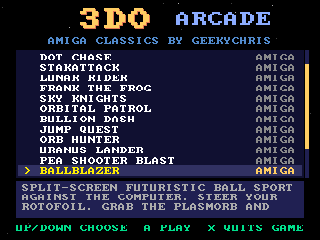
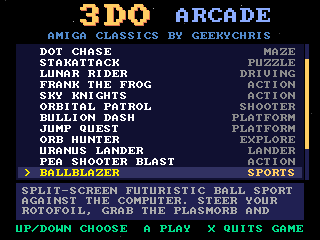
Arcade: crisp 1:1 menu text, genre column instead of origin
- the menu drew a 256-line screen scaled to 240, which drops a line in
  16 and clipped rows of text; it now shows lines 8..247 1:1
  (GFX_VIEW_CROP) with the layout moved to fit
- arcade.txt gains genre= (shown in the menu); origin= stays for docs
- docs/games.md lists each game's genre; screenshots regenerated

Changed region(s): [[0.0312, 0.0, 0.9688, 0.9917]]

diff --git a/projects/arcade/src/main.c b/projects/arcade/src/main.c
@@ -35,6 +35,12 @@ static UWORD palette[16] = {
 #define C_LIGHT  14
 
 #define VISIBLE  12
+/* The menu is drawn 1:1 (lines VIEW_Y0..VIEW_Y0+239 of the 256-line
+ * screen): the default 256 -> 240 scaling drops a line in 16, which
+ * clips rows of text. */
+#define VIEW_Y0  8
+#define LIST_Y   52                     /* list band top */
+#define DESC_Y   (LIST_Y + VISIBLE * 11 + 7)
 #define STARS    40
 
 static WORD star_x[STARS], star_y[STARS], star_s[STARS];
@@ -99,6 +105,7 @@ static int menu(int sel)
 
     if (!gfx_init(palette, 16))
         return -1;
+    gfx_set_view(GFX_VIEW_CROP, VIEW_Y0);
     rp = gfx_back();
     AB_I("menu games=%d selected=%s", NUM_GAMES, NUM_GAMES ? GAMES[sel].name : "-");
 
@@ -128,35 +135,35 @@ static int menu(int sel)
 
         /* title */
         SetAPen(rp, C_CORAL);
-        gfx_text_big(rp, 160 - 5 * 16 / 2 * 2 + 1, 10, "3DO", 3);
+        gfx_text_big(rp, 160 - 5 * 16 / 2 * 2 + 1, 13, "3DO", 3);
         SetAPen(rp, C_GOLD);
-        gfx_text_big(rp, 160 - 5 * 16 / 2 * 2, 9, "3DO", 3);
+        gfx_text_big(rp, 160 - 5 * 16 / 2 * 2, 12, "3DO", 3);
         SetAPen(rp, C_SKY);
-        gfx_text_big(rp, 160 - 3 * 16 / 2 * 2 + 64, 13, "ARCADE", 2);
+        gfx_text_big(rp, 160 - 3 * 16 / 2 * 2 + 64, 16, "ARCADE", 2);
         text_at(rp, 160 - 28 * 4, 40, "AMIGA CLASSICS BY GEEKYCHRIS", C_DIMSKY);
 
         /* list */
         SetAPen(rp, C_BAND1);
-        RectFill(rp, 16, 54, 303, 54 + VISIBLE * 11 + 3);
+        RectFill(rp, 16, LIST_Y, 303, LIST_Y + VISIBLE * 11 + 3);
         for (i = 0; i < VISIBLE && top + i < NUM_GAMES; i++) {
             int g = top + i;
-            LONG y = 57 + i * 11;
+            LONG y = LIST_Y + 3 + i * 11;
             if (g == sel) {
                 SetAPen(rp, C_SEL);
                 RectFill(rp, 18, y - 1, 301, y + 9);
                 text_at(rp, 24, y + 1, ">", C_YELLOW);
             }
             text_at(rp, 40, y + 1, GAMES[g].title, g == sel ? C_YELLOW : C_WHITE);
-            text_at(rp, 296 - 8 * (LONG)strlen(GAMES[g].origin), y + 1, GAMES[g].origin,
+            text_at(rp, 296 - 8 * (LONG)strlen(GAMES[g].genre), y + 1, GAMES[g].genre,
                     g == sel ? C_GOLD : C_GREY);
         }
         if (NUM_GAMES > VISIBLE) {
             /* scrollbar right of the list so it's clear there are more games */
             LONG track = VISIBLE * 11 + 3;
             LONG th = track * VISIBLE / NUM_GAMES;
-            LONG ty = 54 + (track - th) * top / (NUM_GAMES - VISIBLE);
+            LONG ty = LIST_Y + (track - th) * top / (NUM_GAMES - VISIBLE);
             SetAPen(rp, C_BAND2);
-            RectFill(rp, 305, 54, 308, 54 + track);
+            RectFill(rp, 305, LIST_Y, 308, LIST_Y + track);
             SetAPen(rp, C_GOLD);
             RectFill(rp, 305, ty, 308, ty + th - 1);
         }
@@ -164,12 +171,12 @@ static int menu(int sel)
         /* description */
         if (NUM_GAMES) {
             SetAPen(rp, C_BAND2);
-            RectFill(rp, 16, 194, 303, 232);
-            text_wrapped(rp, 22, 197, GAMES[sel].desc, 35, C_LIGHT, 3);
+            RectFill(rp, 16, DESC_Y, 303, DESC_Y + 36);
+            text_wrapped(rp, 22, DESC_Y + 4, GAMES[sel].desc, 35, C_LIGHT, 3);
         } else {
             text_at(rp, 40, 120, "NO GAMES ON THIS DISC", C_CORAL);
         }
-        text_at(rp, 160 - 36 * 4, 240, "UP/DOWN CHOOSE  A PLAY  X QUITS GAME", ((t >> 4) & 1) ? C_GREEN : C_DIMSKY);
+        text_at(rp, 160 - 36 * 4, DESC_Y + 42, "UP/DOWN CHOOSE  A PLAY  X QUITS GAME", ((t >> 4) & 1) ? C_GREEN : C_DIMSKY);
 
         gfx_swap();
         t++;

diff --git a/docs/tools/capture_games.py b/docs/tools/capture_games.py
@@ -84,7 +84,7 @@ def main():
             logic, draw = spd[g["name"]]
             rows.append(f"| [{g['title']}](#{g['name'].replace('_', '-')}) | {logic:.0f} | {draw:.0f} |")
         sections.append(f"### {g['title']}\n<a id=\"{g['name'].replace('_', '-')}\"></a>\n\n"
-                        f"{g.get('desc', '')}\n\n`projects/{g['name']}` · from the {g.get('origin', '')} version\n\n"
+                        f"{g.get('desc', '')}\n\n{g.get('genre', '')} · `projects/{g['name']}` · from the {g.get('origin', '')} version\n\n"
                         + " ".join(imgs) + "\n")
     page = ["# The games", "",
             "Ports of the Amiga games to the 3DO through the sdk/amiga compatibility",

diff --git a/docs/games.md b/docs/games.md
@@ -48,7 +48,7 @@ Measured in the emulator by `./3do selftest`.
 
 Asteroids-style vector shooter. Rotate, thrust and blast the rocks before they smash your ship. LEFT/RIGHT rotate, UP or B thrust, A fire.
 
-`projects/rock_blaster` · from the Amiga version
+Shooter · `projects/rock_blaster` · from the Amiga version
 
 ![Rock Blaster title](images/games/rock_blaster-title.png) ![Rock Blaster play](images/games/rock_blaster-play.png)
 
@@ -57,7 +57,7 @@ Asteroids-style vector shooter. Rotate, thrust and blast the rocks before they s
 
 Space Invaders-style shooter. Hold back the alien swarm from behind your shields and pick off the UFO. LEFT/RIGHT move, A fire.
 
-`projects/nova_defense` · from the Amiga version
+Shooter · `projects/nova_defense` · from the Amiga version
 
 ![Nova Defense title](images/games/nova_defense-title.png) ![Nova Defense play](images/games/nova_defense-play.png)
 
@@ -66,7 +66,7 @@ Space Invaders-style shooter. Hold back the alien swarm from behind your shields
 
 Maze chase in the style of Pac-Man. Eat every dot, grab a power pellet to turn the tables on the ghosts. D-pad steers, A starts.
 
-`projects/dot_chase` · from the Amiga version
+Maze · `projects/dot_chase` · from the Amiga version
 
 ![Dot Chase title](images/games/dot_chase-title.png) ![Dot Chase play](images/games/dot_chase-play.png)
 
@@ -75,7 +75,7 @@ Maze chase in the style of Pac-Man. Eat every dot, grab a power pellet to turn t
 
 Falling-block puzzle with ProTracker music. Fit the pieces together and clear lines before the stack reaches the top. LEFT/RIGHT move, A rotate, B drop, DOWN soft drop, P pause.
 
-`projects/stakattack` · from the Amiga version
+Puzzle · `projects/stakattack` · from the Amiga version
 
 ![StakAttack title](images/games/stakattack-title.png) ![StakAttack play](images/games/stakattack-play.png)
 
@@ -84,7 +84,7 @@ Falling-block puzzle with ProTracker music. Fit the pieces together and clear li
 
 Moon Patrol-style buggy ride. Jump the craters and rocks while shooting UFOs and meteors on the way to each checkpoint. LEFT/RIGHT speed, UP or B jump, A shoot.
 
-`projects/lunar_rider` · from the Amiga version
+Driving · `projects/lunar_rider` · from the Amiga version
 
 ![Lunar Rider title](images/games/lunar_rider-title.png) ![Lunar Rider play](images/games/lunar_rider-play.png)
 
@@ -93,7 +93,7 @@ Moon Patrol-style buggy ride. Jump the craters and rocks while shooting UFOs and
 
 Frogger-style crossing with generated music. Hop across the traffic and ride the logs to fill all five homes. D-pad hops, A starts.
 
-`projects/frank_the_frog` · from the Amiga version
+Action · `projects/frank_the_frog` · from the Amiga version
 
 ![Frank the Frog title](images/games/frank_the_frog-title.png) ![Frank the Frog play](images/games/frank_the_frog-play.png)
 
@@ -102,7 +102,7 @@ Frogger-style crossing with generated music. Hop across the traffic and ride the
 
 Joust-style jousting on flying mounts for one or two players. Land on enemies from above and collect the eggs. D-pad steers, A flaps. A starts one player, C two (second pad).
 
-`projects/sky_knights` · from the Amiga version
+Action · `projects/sky_knights` · from the Amiga version
 
 ![Sky Knights title](images/games/sky_knights-title.png) ![Sky Knights play](images/games/sky_knights-play.png)
 
@@ -111,7 +111,7 @@ Joust-style jousting on flying mounts for one or two players. Land on enemies fr
 
 Defender-style side scroller with ProTracker music. Fly over the planet, shoot the invaders and protect the humans. D-pad flies, A fire, B smart bomb, C hyperspace.
 
-`projects/orbital_patrol` · from the Amiga version
+Shooter · `projects/orbital_patrol` · from the Amiga version
 
 ![Orbital Patrol title](images/games/orbital_patrol-title.png) ![Orbital Patrol play](images/games/orbital_patrol-play.png)
 
@@ -120,7 +120,7 @@ Defender-style side scroller with ProTracker music. Fly over the planet, shoot t
 
 Lode Runner-style puzzle platformer with a level editor. Collect the gold, dig traps for the guards, then climb out. A fire, B/C dig left/right. C on the title opens the editor.
 
-`projects/bullion_dash` · from the Amiga version
+Platform · `projects/bullion_dash` · from the Amiga version
 
 ![Bullion Dash title](images/games/bullion_dash-title.png) ![Bullion Dash play](images/games/bullion_dash-play.png)
 
@@ -129,7 +129,7 @@ Lode Runner-style puzzle platformer with a level editor. Collect the gold, dig t
 
 Side-scrolling platformer for one or two players taking turns. Pick RJ or Dale, jump on the enemies and reach the end of three levels. D-pad moves, A jumps.
 
-`projects/jump_quest` · from the Amiga version
+Platform · `projects/jump_quest` · from the Amiga version
 
 ![Jump Quest title](images/games/jump_quest-title.png) ![Jump Quest play](images/games/jump_quest-play.png)
 
@@ -138,7 +138,7 @@ Side-scrolling platformer for one or two players taking turns. Pick RJ or Dale, 
 
 Metroid-style exploration. Search the caverns room by room, collect power-ups to reach new areas. D-pad moves and aims, UP or B jumps, DOWN rolls, A fires.
 
-`projects/orb_hunter` · from the Amiga version
+Explore · `projects/orb_hunter` · from the Amiga version
 
 ![Orb Hunter title](images/games/orb_hunter-title.png) ![Orb Hunter play](images/games/orb_hunter-play.png)
 
@@ -147,7 +147,7 @@ Metroid-style exploration. Search the caverns room by room, collect power-ups to
 
 Lunar Lander over the rings of Uranus, with ProTracker music. Rotate, thrust gently and touch down on the pads before the fuel runs out. LEFT/RIGHT rotate, A thrust.
 
-`projects/uranus_lander` · from the Amiga version
+Lander · `projects/uranus_lander` · from the Amiga version
 
 ![Uranus Lander title](images/games/uranus_lander-title.png) ![Uranus Lander play](images/games/uranus_lander-play.png)
 
@@ -156,7 +156,7 @@ Lunar Lander over the rings of Uranus, with ProTracker music. Rotate, thrust gen
 
 Side-scrolling tank action. Drive, jump and blast through the enemy lines to the end of each level. D-pad drives, UP or B jumps, A fires.
 
-`projects/pea_shooter_blast` · from the Amiga version
+Action · `projects/pea_shooter_blast` · from the Amiga version
 
 ![Pea Shooter Blast title](images/games/pea_shooter_blast-title.png) ![Pea Shooter Blast play](images/games/pea_shooter_blast-play.png)
 
@@ -165,7 +165,7 @@ Side-scrolling tank action. Drive, jump and blast through the enemy lines to the
 
 Split-screen futuristic ball sport against the computer. Steer your rotofoil, grab the plasmorb and shoot it through the goal beams. D-pad steers, UP or A forward.
 
-`projects/ballblazer` · from the Amiga version
+Sports · `projects/ballblazer` · from the Amiga version
 
 ![Ballblazer play](images/games/ballblazer-play.png)
 
@@ -174,7 +174,7 @@ Split-screen futuristic ball sport against the computer. Steer your rotofoil, gr
 
 3D wireframe dogfighting over an airfield to the Blue Danube, one player or two in split screen. D-pad flies, A fires, L/R throttle. L or R on the title picks 1 or 2 players.
 
-`projects/ace_pilot` · from the Amiga version
+Flight sim · `projects/ace_pilot` · from the Amiga version
 
 ![Ace Pilot title](images/games/ace_pilot-title.png) ![Ace Pilot play](images/games/ace_pilot-play.png)
 
@@ -183,7 +183,7 @@ Split-screen futuristic ball sport against the computer. Steer your rotofoil, gr
 
 Elite-style 3D space trading and combat with generated music. Fly, fight the pirates, dock at the station and trade. D-pad pitch/yaw, L/R roll, B/C thrust, A fire, P dock.
 
-`projects/void_trader` · from the Amiga version
+Space trade · `projects/void_trader` · from the Amiga version
 
 ![Void Trader title](images/games/void_trader-title.png) ![Void Trader play](images/games/void_trader-play.png)
 
@@ -192,7 +192,7 @@ Elite-style 3D space trading and combat with generated music. Fly, fight the pir
 
 Birthday party adventure with ProTracker music. Run around the party rooms, greet the guests, find the cake. D-pad moves, A acts, B help, C guest list.
 
-`projects/rj_birthday` · from the Amiga version
+Adventure · `projects/rj_birthday` · from the Amiga version
 
 ![RJ Birthday title](images/games/rj_birthday-title.png) ![RJ Birthday play](images/games/rj_birthday-play.png)
 
@@ -201,6 +201,6 @@ Birthday party adventure with ProTracker music. Run around the party rooms, gree
 
 Fly a fractal planet's valleys and rescue downed pilots - but some are Jaggis in disguise. Up/Down thrust and brake, Left/Right turn, L/R climb and dive, A fires, B lands, P starts.
 
-`projects/fractalus` · from the Amiga version
+3D flight · `projects/fractalus` · from the Amiga version
 
 ![Fractalus title](images/games/fractalus-title.png) ![Fractalus play](images/games/fractalus-play.png)
